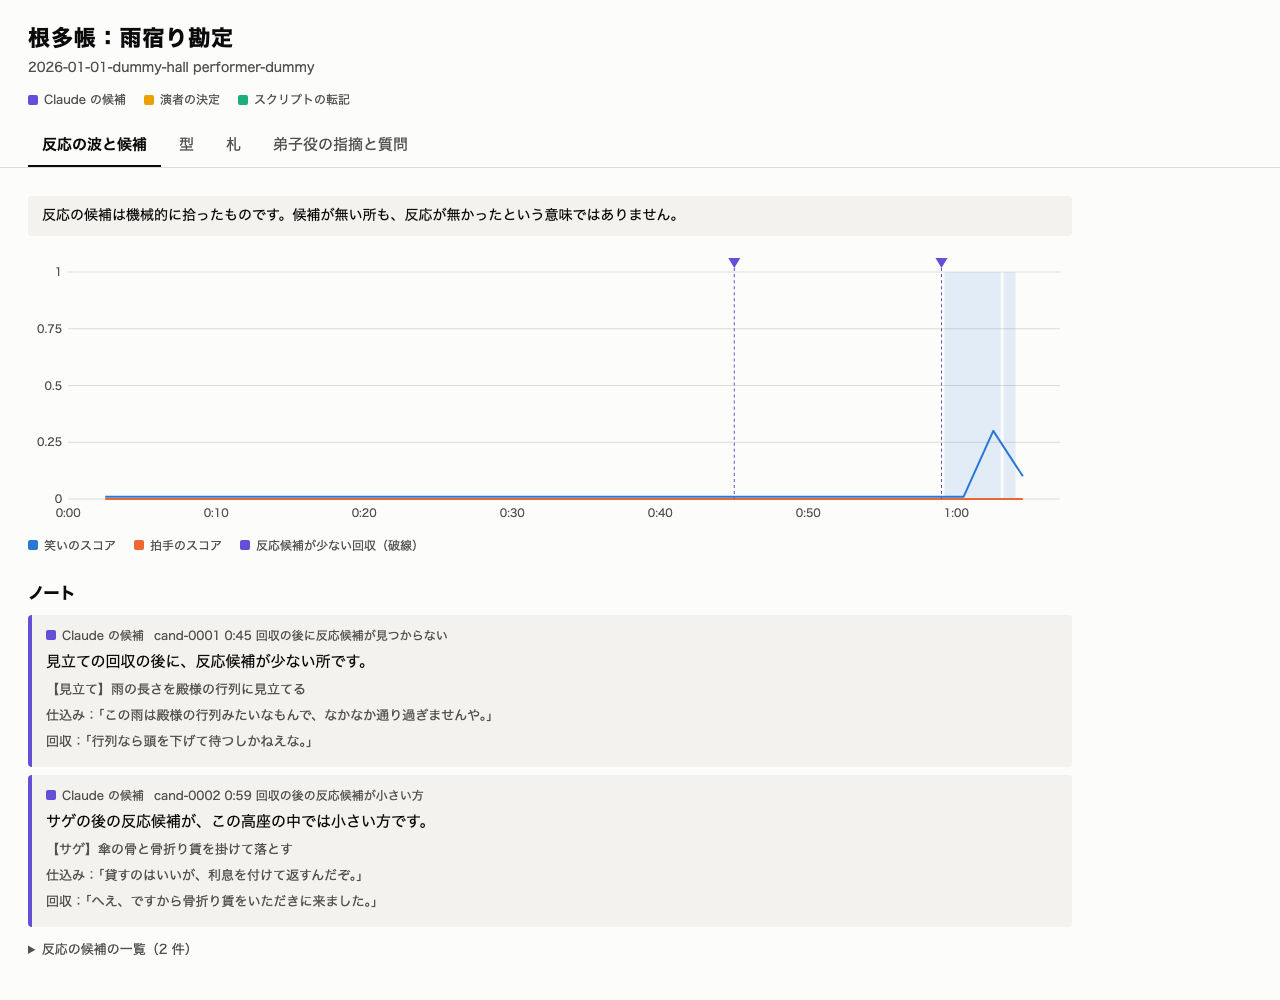
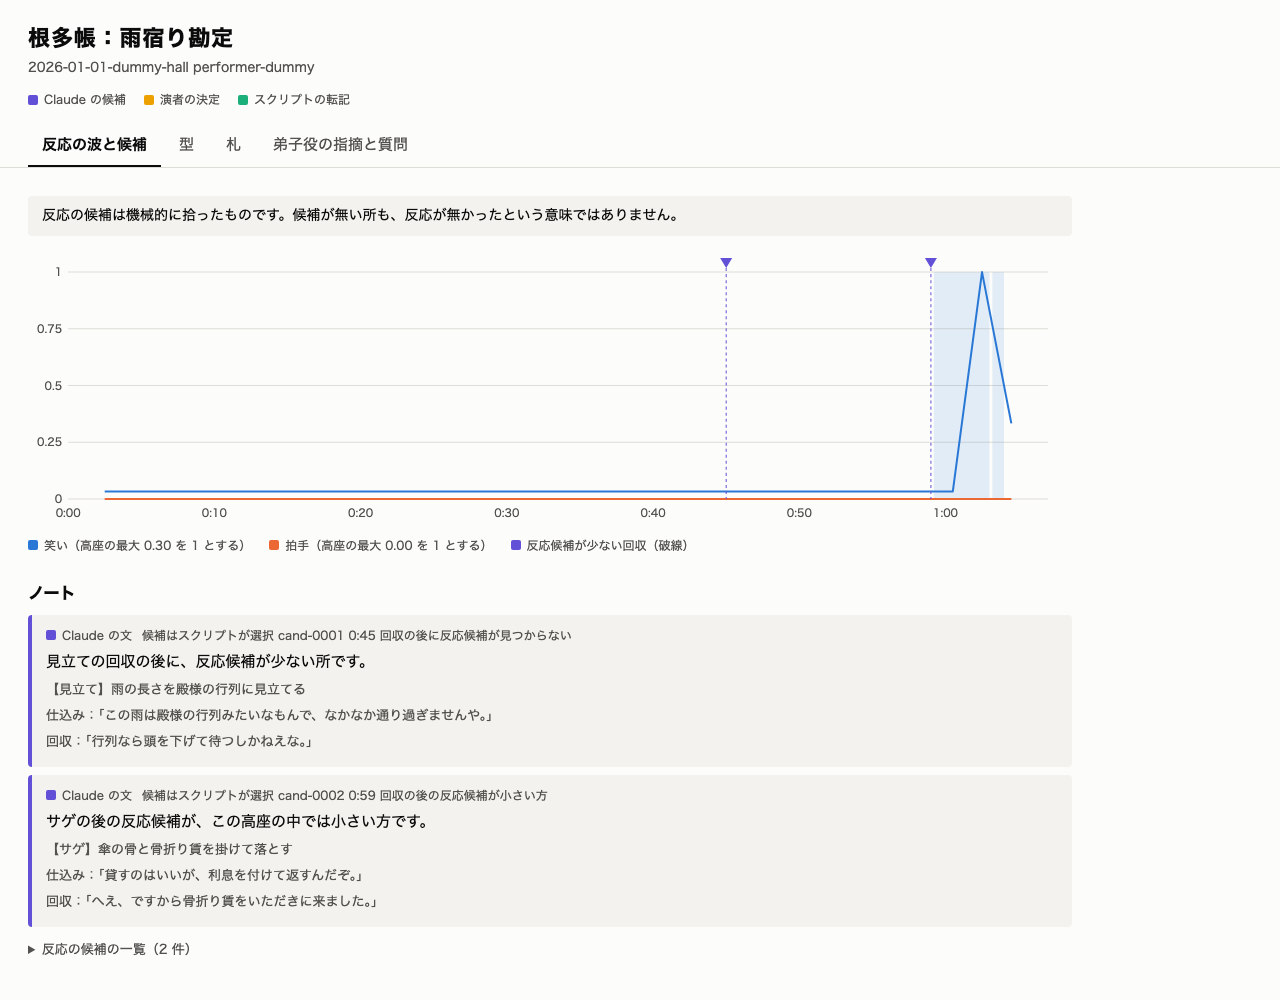
fix: 全高座の timeline で場面を引き、配信を out/view だけに、ラベルと軸を直す（自動レビュー）
Claude-Session: https://claude.ai/code/session_014B5vssNXLTch29WYUxYH2g

diff --git a/viewer/index.html b/viewer/index.html
@@ -111,6 +111,8 @@ function drawWave(root, d) {
   if (!s || !s.laugh.length) { root.append(el("div", { class: "notice" }, "スコアがありません。")); return; }
   const W = 1040, H = 280, L = 40, R = 24, T = 28, B = 26;
   const end = (s.laugh.length - 1) * s.stride + s.window;
+  // 笑いは最大でも約 0.3 で、拍手と同じ高さで描くと潰れる。種類ごとに、この高座の最大を 1 とする
+  const top = { laugh: Math.max(...s.laugh, 1e-6), applause: Math.max(...s.applause, 1e-6) };
   const x = t => L + (W - L - R) * t / end, y = v => T + (H - T - B) * (1 - v);
   const center = i => i * s.stride + s.window / 2;
   const box = el("div", { class: "chart" });
@@ -127,7 +129,7 @@ function drawWave(root, d) {
       fill: `var(${v})`, opacity: .12 }));
   }
   for (const [key, v] of [["laugh", "--laugh"], ["applause", "--applause"]]) {
-    const pts = s[key].map((p, i) => `${x(center(i)).toFixed(1)},${y(p).toFixed(1)}`).join(" ");
+    const pts = s[key].map((p, i) => `${x(center(i)).toFixed(1)},${y(p / top[key]).toFixed(1)}`).join(" ");
     g.append(svg("polyline", { points: pts, fill: "none", stroke: `var(${v})`, "stroke-width": 2, "stroke-linejoin": "round" }));
   }
   for (const c of (d.candidates?.candidates || [])) {
@@ -152,8 +154,8 @@ function drawWave(root, d) {
   g.addEventListener("pointerleave", () => { cross.setAttribute("visibility", "hidden"); tip.style.display = "none"; });
   root.append(box);
   root.append(el("div", { class: "legend" },
-    el("span", { class: "tag", style: "--c: var(--laugh)" }, "笑いのスコア"),
-    el("span", { class: "tag", style: "--c: var(--applause)" }, "拍手のスコア"),
+    el("span", { class: "tag", style: "--c: var(--laugh)" }, `笑い（高座の最大 ${top.laugh.toFixed(2)} を 1 とする）`),
+    el("span", { class: "tag", style: "--c: var(--applause)" }, `拍手（高座の最大 ${top.applause.toFixed(2)} を 1 とする）`),
     el("span", { class: "tag claude" }, "反応候補が少ない回収（破線）")));
 }
 
@@ -176,10 +178,10 @@ function renderWave(d) {
       if (it.source?.quote) body.push(el("p", { class: "quote" }, `仕込み：「${it.source.quote}」`));
       if (it.payoff?.quote) body.push(el("p", { class: "quote" }, `回収：「${it.payoff.quote}」`));
     }
-    // 候補を選ぶのはスクリプト。文がノート役の物なら Claude、決まった文ならスクリプト
+    // 候補を選ぶのはスクリプト。文はノート役か、スクリプトの決まった文
     const fixed = c.note_source === "fixed";
-    root.append(card(fixed ? "script" : "claude", fixed ? "スクリプトの転記" : "Claude の候補",
-      `${c.id}  ${clock(c.payoff_t)}  ${WHY[c.why] || ""}`, ...body));
+    root.append(card(fixed ? "script" : "claude", fixed ? "スクリプトの決まった文" : "Claude の文",
+      `候補はスクリプトが選択  ${c.id}  ${clock(c.payoff_t)}  ${WHY[c.why] || ""}`, ...body));
   }
   const table = el("table", {}, el("tr", {}, ...["順位", "時刻", "種類"].map(h => el("th", {}, h))));
   for (const r of rows) table.append(el("tr", {},
@@ -263,7 +265,7 @@ async function main() {
     b.addEventListener("click", () => { select(key); history.replaceState(null, "", "#" + key); });
     tabs.append(b);
   }
-  const run = new URLSearchParams(location.search).get("run") || "../out/view";
+  const run = new URLSearchParams(location.search).get("run") || ".";
   try {
     const res = await fetch(`${run}/view.json`);
     if (!res.ok) throw new Error(String(res.status));

diff --git a/netacho/pipeline.py b/netacho/pipeline.py
@@ -406,20 +406,24 @@ def note_is_ok(text: str) -> bool:
     return NOTE_BANNED.search(plain) is None
 
 
-def checked_notes(doc: dict | None, cands: dict) -> tuple[dict[str, str], int]:
-    """候補ごとに 1 件の文を返す。無い、重なる、断定の語があるものは決まった文に置き換えて数える。"""
+def checked_notes(doc: dict | None, cands: dict) -> tuple[dict[str, str], set[str]]:
+    """候補ごとに 1 件の文を返す。無い、重なる、検査に落ちるものは決まった文にする。
+
+    返すのは (文, 決まった文にした候補の ID)。
+    """
     written: dict[str, list[str]] = {}
     for n in (doc or {"notes": []})["notes"]:
         written.setdefault(n["candidate_id"], []).append(n["text"].strip())
-    out, fallback = {}, 0
+    out: dict[str, str] = {}
+    fixed: set[str] = set()
     for c in cands["candidates"]:
         texts = written.get(c["id"], [])
         if len(texts) == 1 and note_is_ok(texts[0]):
             out[c["id"]] = texts[0]
         else:
             out[c["id"]] = NOTE_FALLBACK[c["why"]]
-            fallback += 1
-    return out, fallback
+            fixed.add(c["id"])
+    return out, fixed
 
 
 def note(
@@ -471,10 +475,10 @@ def note(
             store.write(run_path, ctx.usage.to_json(), "run")  # 費用は実測として残す
             raise
         store.write(ctx.neta.drafts / "noter.json", doc, "noter")
-    notes, fallback = checked_notes(doc, cands)
+    notes, fixed = checked_notes(doc, cands)
     for c in cands["candidates"]:
         c["note"] = notes[c["id"]]
-        c["note_source"] = "fixed" if notes[c["id"]] == NOTE_FALLBACK[c["why"]] else "claude"
+        c["note_source"] = "fixed" if c["id"] in fixed else "claude"
     store.write(kdir / "note_candidates.json", cands, "note_candidates")  # 視聴画面が読む
     scene_of = {s["seg_id"]: s["scene_id"] for s in tl["segments"]}
     titles = {s["id"]: s["title"] for s in ctx.hanashi["scenes"]}
@@ -485,7 +489,7 @@ def note(
     (kdir / "note.md").write_text(
         render.note_markdown(ctx.koza, cands, notes, items, item_scene), encoding="utf-8"
     )
-    ctx.usage.extra["notes"] = {"candidates": len(cands["candidates"]), "fallback": fallback}
+    ctx.usage.extra["notes"] = {"candidates": len(cands["candidates"]), "fallback": len(fixed)}
     result = ctx.usage.to_json()
     store.write(run_path, result, "run")
     return result

diff --git a/tests/test_view.py b/tests/test_view.py
@@ -38,7 +38,40 @@ def test_items_know_their_scene(doc):
 def test_write_goes_to_out_dir(tmp_path):
     path = view.write(store.Neta(P, N, DATA), K, tmp_path / "view")
     assert json.loads(path.read_text(encoding="utf-8"))["koza"]["id"] == K
-    assert [p.name for p in path.parent.iterdir()] == ["view.json"]  # 録音を書き出さない
+    assert sorted(p.name for p in path.parent.iterdir()) == ["index.html", "view.json"]  # 録音は出さない
+
+
+def _two_koza(tmp_path):
+    """二席目に出所のある項目を持つ、ダミーの置き場。"""
+    import shutil
+
+    root = tmp_path / "data"
+    shutil.copytree(DATA, root)
+    neta = store.Neta(P, N, root)
+    k2 = "2026-03-03-dummy-hall"
+    shutil.copytree(neta.koza_dir(K), neta.koza_dir(k2))
+    tl = store.read(neta.koza_dir(k2) / "timeline.json", "timeline")
+    tl["koza_id"] = k2
+    store.write(neta.koza_dir(k2) / "timeline.json", tl, "timeline")
+    hanashi = store.read(neta.hanashi, "book")
+    hanashi["items"][0]["source"]["koza_id"] = k2
+    store.write(neta.hanashi, hanashi, "book")
+    return neta, k2
+
+
+def test_items_of_another_koza_find_their_scene(tmp_path):
+    neta, _ = _two_koza(tmp_path)
+    doc = view.payload(neta, K)
+    assert next(i for i in doc["hanashi"] if i["id"] == "item-0001")["scene_id"] == "scene-02"
+
+
+def test_held_items_reach_the_screen(doc):
+    assert any(i.get("held") for i in doc["kata"])
+
+
+def test_only_out_view_is_served():
+    make = (ROOT / "Makefile").read_text(encoding="utf-8")
+    assert "-d out/view" in make and "-d ." not in make
 
 
 def test_missing_later_files_are_ok(tmp_path):

diff --git a/netacho/view.py b/netacho/view.py
@@ -3,11 +3,14 @@
 from __future__ import annotations
 
 import json
+import shutil
 from pathlib import Path
 
 from . import render, store
 
-OUT = Path(__file__).resolve().parent.parent / "out" / "view"
+ROOT = Path(__file__).resolve().parent.parent
+OUT = ROOT / "out" / "view"
+VIEWER = ROOT / "viewer" / "index.html"
 
 
 def _optional(path: Path, schema: str) -> dict | None:
@@ -21,8 +24,9 @@ def _with_scene(items: list[dict], lookup: dict) -> list[dict]:
 def payload(neta: store.Neta, koza_id: str) -> dict:
     """1 つの高座を見るのに要る物を 1 つの JSON にまとめる。"""
     kdir = neta.koza_dir(koza_id)
-    timeline = _optional(kdir / "timeline.json", "timeline")
-    lookup = render.scene_lookup([timeline] if timeline else [])
+    # 正本は演目全体の物。別の高座が出所の項目も場面を引けるように、全高座の timeline を読む
+    timelines = [store.read(p, "timeline") for p in sorted((neta.base / "koza").glob("*/timeline.json"))]
+    lookup = render.scene_lookup(timelines)
     hanashi = store.read(neta.hanashi, "book")
     kata = store.read(neta.kata, "book")
     note = kdir / "note.md"
@@ -48,4 +52,5 @@ def write(neta: store.Neta, koza_id: str, out: Path = OUT) -> Path:
     tmp = path.with_name(path.name + ".tmp")
     tmp.write_text(json.dumps(payload(neta, koza_id), ensure_ascii=False), encoding="utf-8")
     tmp.replace(path)
+    shutil.copy2(VIEWER, out / "index.html")  # 配信は out/view だけ（repo 全体を出さない）
     return path

diff --git a/netacho/cli.py b/netacho/cli.py
@@ -316,7 +316,9 @@ def cmd_view(args: argparse.Namespace) -> None:
     try:
         path = view.write(store.Neta(args.performer, args.neta), args.koza, out)
     except FileNotFoundError as e:
-        raise SystemExit(f"{Path(str(e.filename)).name} が無い。先に netacho prep と build を回す") from e
+        if not e.filename or Path(e.filename).suffix != ".json" or "schemas" in Path(e.filename).parts:
+            raise  # 手順の問題ではない
+        raise SystemExit(f"{Path(e.filename).name} が無い。先に netacho prep と build を回す") from e
     print(f"書き出した：{path.name}。make viewer で開く")
 
 

diff --git a/docs/reports/2026-11-05-viewer.md b/docs/reports/2026-11-05-viewer.md
@@ -30,7 +30,7 @@
 | 判断 | 理由 |
 | --- | --- |
 | 色に加えて必ず文字のラベルを付ける | 色だけに頼らない。3 色は配色の検査を通した |
-| 笑いと拍手は同じ軸で描く | 2 軸にすると比較を誤らせる。笑いの山は低く見えるが、高座の中の山は帯で示す |
+| 笑いと拍手は種類ごとに高座の最大を 1 として描く | 笑いは最大でも約 0.3 で、そのままだと線が潰れる。高さの意味は凡例に書く |
 | 文字はすべて `textContent` で入れる | 演者の言葉を HTML として解釈しない |
 | 音声は書き出さない | 演者の録音を repo の下に置かない |
 
@@ -58,4 +58,5 @@
 
 - Issue：#19
 - reviewer の指摘 7 件。反映 6（`--bind 127.0.0.1`、ノートの文の出どころのラベル、欠損への備え、手の反応の表示、build の前の案内、候補の古いファイル）、一部反映 1（JS の自動テストは入れず、Chrome で 40 分相当と欠損のデータを確かめた）
+- 自動レビュー：場面は全高座の timeline から引く、配信は `out/view` だけ（`.env` や `.git` を出さない）、ラベルは「候補はスクリプトが選択、文は Claude」、笑いと拍手は種類ごとの最大を 1 にして描く、を反映
 - 注記：最初の撮影で、ポート 8000 の別の画面（別プロダクト）を撮ってしまった。コミットの前に気づいて消し、空いているポートで撮り直した。後始末に `pkill -f 'http.server -d . 8000'` を実行したが、ポート 8000 の VS Code のプロセスは動き続けていて、止めたのは自分で立てたサーバーだけと判断している

diff --git a/docs/plan.md b/docs/plan.md
@@ -263,7 +263,7 @@ netacho guide   --performer ID --neta 演目                         # LLM 0 回
 netacho view    --performer ID --neta 演目 --koza KOZA             # out/view/ へ書き出す
 ```
 
-`make viewer` で `http://localhost:8000/viewer/?run=../out/view`。画面は 4 枚：反応の波と候補、型、札、弟子役の指摘と質問。「Claude の候補」「演者の決定」「スクリプトの転記」を色とラベルで見分けられるようにする。
+`netacho view` の後、`make viewer` で `http://localhost:8000/`（配信は `out/view` だけ）。画面は 4 枚：反応の波と候補、型、札、弟子役の指摘と質問。「Claude の候補」「演者の決定」「スクリプトの転記」を色とラベルで見分けられるようにする。
 
 ### 費用の管理（`budget.py`）
 

diff --git a/README.md b/README.md
@@ -12,7 +12,7 @@ repo にはダミー（自作の架空の噺）だけが入っています。
 make setup
 make test
 NETACHO_DATA=tests/fixtures/dummy_koza uv run netacho view --performer performer-dummy --neta 雨宿り勘定 --koza 2026-01-01-dummy-hall
-make viewer   # http://localhost:8000/viewer/?run=../out/view（ポートが塞がっていれば make viewer PORT=8765）
+make viewer   # http://localhost:8000/（ポートが塞がっていれば make viewer PORT=8765）
 ```
 
 `--reuse` は、同じ入力の役の出力を使い回します。正本が変わると入力も変わるので、途中で落ちたときのやり直しに使います。
